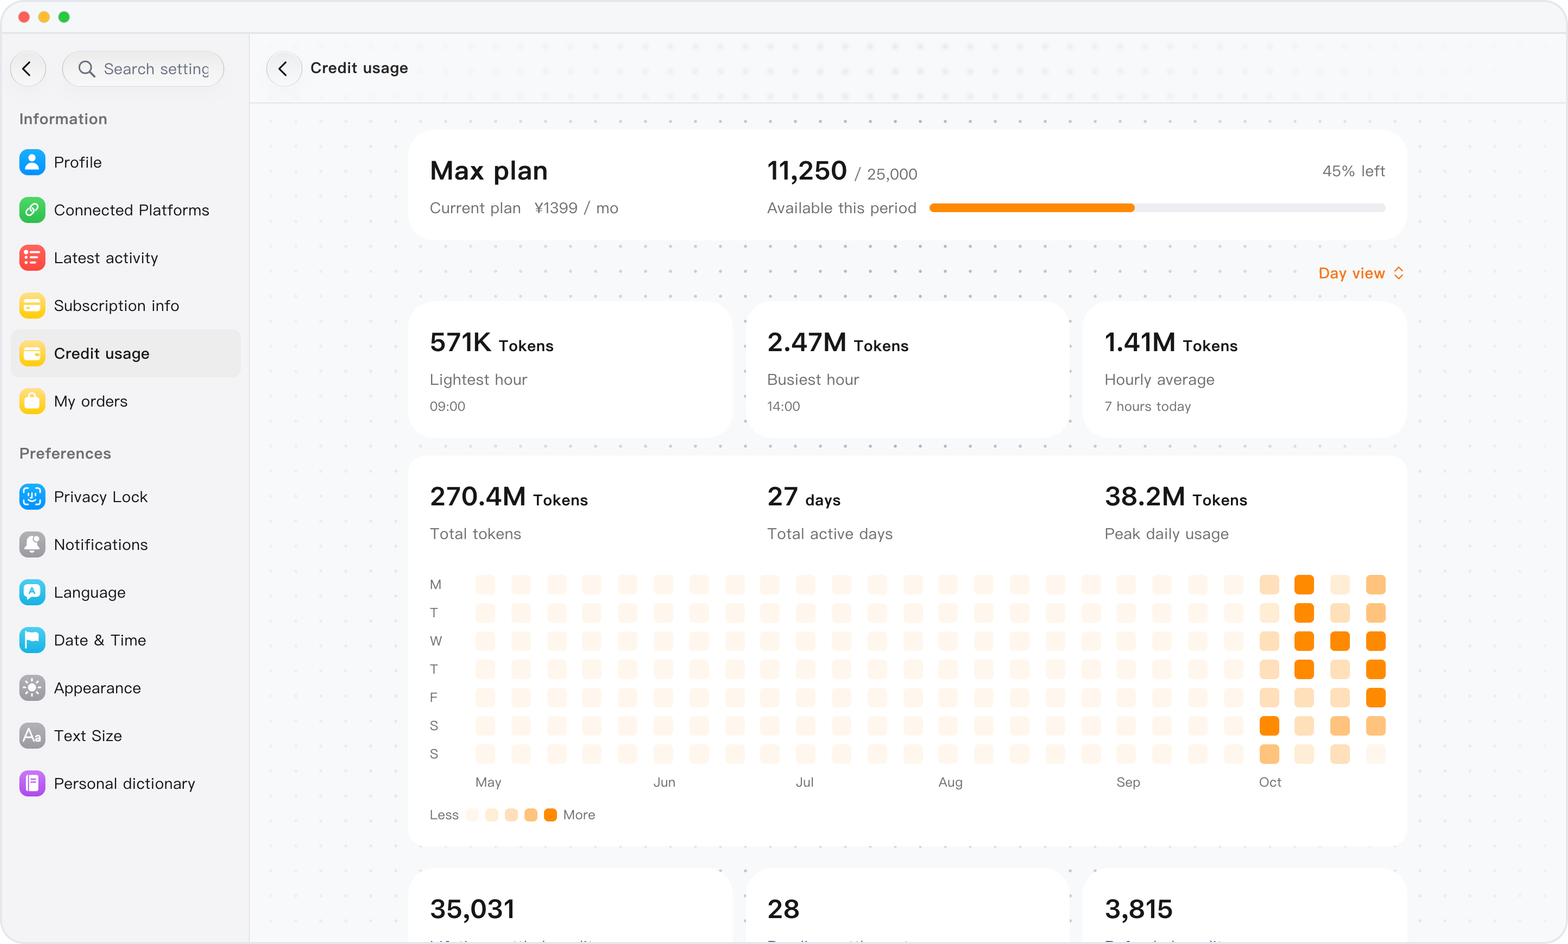
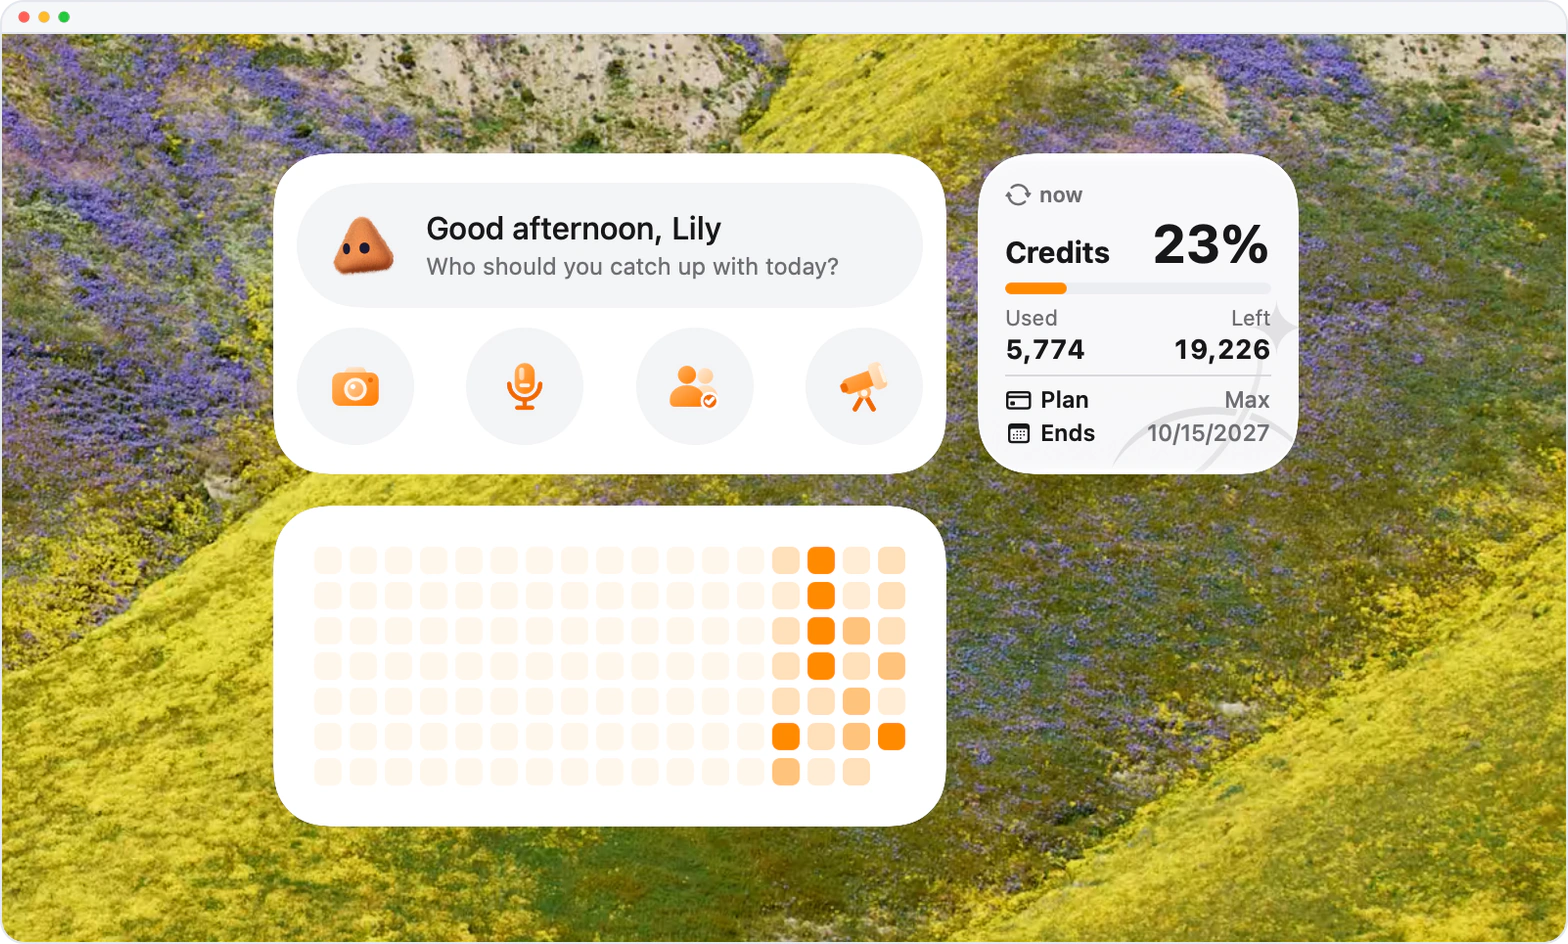
docs(changelog): sync CRM preview updates and screenshots
Changes:
- Publish CRM preview notes, localized screenshots and indexes; retain released history.

Validation:
- Generated output is current; all Markdown links resolve; staged whitespace check passes.

Impact:
- Public documentation only. Preview features remain unreleased; no production deployment or user data changes.

Traceability:
- Founder-approved GitHub changelog synchronization, 2026-10-22.

diff --git a/releases/crm-2026-10-24-mars-widgets-on-iphone.md b/releases/crm-2026-10-24-mars-widgets-on-iphone.md
@@ -1,19 +1,19 @@
-# Mars widgets for iPhone
+# Mars widgets for iPhone and Mac
 
-> **Preview** · 2026-10-24 · `0.1.1.7865`
+> **Preview** · 2026-10-24 · `0.1.1.7924`
 > These features are available in the preview version and have not been generally released.
 
-Reach Mars from the Home Screen without hunting for the app.
+Reach Mars from the Home Screen or the desktop without hunting for the app.
 
-Touch and hold the Home Screen, choose Edit, then Add Widget, and pick Mars. Quick actions shows an orange plush bot that greets you by name for the time of day, with an event starting within the next two hours or a suggestion such as snapping a business card. Its four buttons open a new conversation ready for the camera, voice input, relationship information or deep research. Credit usage shows the last weeks of your daily token heatmap, the same as the usage page, and opens that page when tapped. On the Lock Screen, add the Mars logo, voice input and camera upload buttons, and a plan and credits bar whose ring shows the share of credits left, with your plan, the percentage left and remaining / total credits. Widgets show what the app last synced: it refreshes them when it opens and when you leave it, so the Lock Screen reflects credits you just spent, and signing out clears them. Siri and Spotlight also offer new chat, voice input, upload screenshot and view reminders.
+Touch and hold the Home Screen, choose Edit, then Add Widget, and pick Mars. Quick actions shows an orange plush bot that greets you by name for the time of day, with an event starting within the next two hours or a suggestion such as snapping a business card. Its four buttons open a new conversation ready for the camera, voice input, relationship information or deep research. Credit usage shows the last weeks of your daily token heatmap, the same as the usage page, and opens that page when tapped. The small credits card shows the share of credits used, used and remaining credits, your plan and when the subscription ends, in light, dark or following the system. On a Mac with the Mars app, right-click the desktop, choose Edit Widgets and search for Mars to place the same widgets on the desktop. On the Lock Screen, add the Mars logo, voice input and camera upload buttons, and a plan and credits bar whose ring shows the share of credits left, with your plan, the percentage left and remaining / total credits. Widgets show what the app last synced: it refreshes them when it opens and when you leave it, so the Lock Screen reflects credits you just spent, and signing out clears them. Siri and Spotlight also offer new chat, voice input, upload screenshot and view reminders.
 
 Capture a business card, a voice note or a research question the moment it comes up, and always know how many credits you have left.
 
-![Mars widgets for iPhone — Desktop](../assets/crm-mars-widgets-on-iphone.en.webp)
+![Mars widgets for iPhone and Mac — Desktop](../assets/crm-mars-widgets-on-iphone.en.webp)
 
 *Illustration using fictional demo data.*
 
-![Mars widgets for iPhone — iPhone](../assets/crm-mars-widgets-on-iphone.phone.en.webp)
+![Mars widgets for iPhone and Mac — iPhone](../assets/crm-mars-widgets-on-iphone.phone.en.webp)
 
 *Illustration using fictional demo data.*
 

diff --git a/releases/crm-2026-10-24-mars-widgets-on-iphone.zh-HK.md b/releases/crm-2026-10-24-mars-widgets-on-iphone.zh-HK.md
@@ -1,19 +1,19 @@
-# iPhone 桌面小組件
+# iPhone 和 Mac 桌面小組件
 
-> **預覽** · 2026-10-24 · `0.1.1.7865`
+> **預覽** · 2026-10-24 · `0.1.1.7924`
 > 以下功能目前處於預覽階段，尚未正式上線。
 
-不用找應用，在主屏幕上就能叫出 Mars。
+不用找應用，在主屏幕或桌面上就能叫出 Mars。
 
-長按主屏幕，選擇「編輯」→「添加小組件」，找到 Mars 即可。「Mars 快捷入口」上有一隻橙色毛絨機器人，按時段叫出你的名字問好；兩小時內有事件時顯示該事件，否則給出「拍張名片」之類的建議。下方四個按鈕分別新建一個對話並直接進入拍照、語音輸入、關係信息或深度研究。「額度消耗」顯示最近幾週每天的 Tokens 消耗熱力圖，與額度使用情況頁一致，點按即可打開該頁。在鎖屏上可以添加 Mars 標誌、語音輸入和拍照上傳按鈕，以及套餐與額度條：圓環顯示剩餘額度佔比，旁邊是套餐名稱、剩餘百分比和剩餘 / 總額度。小組件顯示的是應用最近一次同步的數據：打開應用和離開應用時都會刷新，所以剛用掉的額度會立即反映在鎖屏上；退出登錄後小組件會清空。Siri 和聚焦搜索也提供「開啓新對話」「語音輸入」「上傳截圖」「查看提醒」四個建議。
+長按主屏幕，選擇「編輯」→「添加小組件」，找到 Mars 即可。「Mars 快捷入口」上有一隻橙色毛絨機器人，按時段叫出你的名字問好；兩小時內有事件時顯示該事件，否則給出「拍張名片」之類的建議。下方四個按鈕分別新建一個對話並直接進入拍照、語音輸入、關係信息或深度研究。「額度消耗」顯示最近幾週每天的 Tokens 消耗熱力圖，與額度使用情況頁一致，點按即可打開該頁。小尺寸的「額度卡片」顯示已用額度佔比、已用和剩餘額度、套餐和訂閲截止時間，可選淺色、深色或跟隨系統。在裝有 Mars 的 Mac 上，右鍵點按桌面，選擇「編輯小組件」並搜索 Mars，就能把同樣的小組件放到桌面上。在鎖屏上可以添加 Mars 標誌、語音輸入和拍照上傳按鈕，以及套餐與額度條：圓環顯示剩餘額度佔比，旁邊是套餐名稱、剩餘百分比和剩餘 / 總額度。小組件顯示的是應用最近一次同步的數據：打開應用和離開應用時都會刷新，所以剛用掉的額度會立即反映在鎖屏上；退出登錄後小組件會清空。Siri 和聚焦搜索也提供「開啓新對話」「語音輸入」「上傳截圖」「查看提醒」四個建議。
 
 名片、語音和想研究的問題，想到就能記下；剩餘額度也隨時心中有數。
 
-![iPhone 桌面小組件 — 電腦端](../assets/crm-mars-widgets-on-iphone.zh-TW.webp)
+![iPhone 和 Mac 桌面小組件 — 電腦端](../assets/crm-mars-widgets-on-iphone.zh-TW.webp)
 
 *示意圖，使用虛構演示資料。*
 
-![iPhone 桌面小組件 — iPhone](../assets/crm-mars-widgets-on-iphone.phone.zh-TW.webp)
+![iPhone 和 Mac 桌面小組件 — iPhone](../assets/crm-mars-widgets-on-iphone.phone.zh-TW.webp)
 
 *示意圖，使用虛構演示資料。*
 

diff --git a/releases/crm-2026-10-24-mars-widgets-on-iphone.zh-CN.md b/releases/crm-2026-10-24-mars-widgets-on-iphone.zh-CN.md
@@ -1,19 +1,19 @@
-# iPhone 桌面小组件
+# iPhone 和 Mac 桌面小组件
 
-> **预览** · 2026-10-24 · `0.1.1.7865`
+> **预览** · 2026-10-24 · `0.1.1.7924`
 > 以下功能目前处于预览阶段，尚未正式上线。
 
-不用找应用，在主屏幕上就能叫出 Mars。
+不用找应用，在主屏幕或桌面上就能叫出 Mars。
 
-长按主屏幕，选择「编辑」→「添加小组件」，找到 Mars 即可。「Mars 快捷入口」上有一只橙色毛绒机器人，按时段叫出你的名字问好；两小时内有事件时显示该事件，否则给出「拍张名片」之类的建议。下方四个按钮分别新建一个对话并直接进入拍照、语音输入、关系信息或深度研究。「额度消耗」显示最近几周每天的 Tokens 消耗热力图，与额度使用情况页一致，点按即可打开该页。在锁屏上可以添加 Mars 标志、语音输入和拍照上传按钮，以及套餐与额度条：圆环显示剩余额度占比，旁边是套餐名称、剩余百分比和剩余 / 总额度。小组件显示的是应用最近一次同步的数据：打开应用和离开应用时都会刷新，所以刚用掉的额度会立即反映在锁屏上；退出登录后小组件会清空。Siri 和聚焦搜索也提供「开启新对话」「语音输入」「上传截图」「查看提醒」四个建议。
+长按主屏幕，选择「编辑」→「添加小组件」，找到 Mars 即可。「Mars 快捷入口」上有一只橙色毛绒机器人，按时段叫出你的名字问好；两小时内有事件时显示该事件，否则给出「拍张名片」之类的建议。下方四个按钮分别新建一个对话并直接进入拍照、语音输入、关系信息或深度研究。「额度消耗」显示最近几周每天的 Tokens 消耗热力图，与额度使用情况页一致，点按即可打开该页。小尺寸的「额度卡片」显示已用额度占比、已用和剩余额度、套餐和订阅截止时间，可选浅色、深色或跟随系统。在装有 Mars 的 Mac 上，右键点按桌面，选择「编辑小组件」并搜索 Mars，就能把同样的小组件放到桌面上。在锁屏上可以添加 Mars 标志、语音输入和拍照上传按钮，以及套餐与额度条：圆环显示剩余额度占比，旁边是套餐名称、剩余百分比和剩余 / 总额度。小组件显示的是应用最近一次同步的数据：打开应用和离开应用时都会刷新，所以刚用掉的额度会立即反映在锁屏上；退出登录后小组件会清空。Siri 和聚焦搜索也提供「开启新对话」「语音输入」「上传截图」「查看提醒」四个建议。
 
 名片、语音和想研究的问题，想到就能记下；剩余额度也随时心中有数。
 
-![iPhone 桌面小组件 — 电脑端](../assets/crm-mars-widgets-on-iphone.webp)
+![iPhone 和 Mac 桌面小组件 — 电脑端](../assets/crm-mars-widgets-on-iphone.webp)
 
 *示意图，使用虚构演示数据。*
 
-![iPhone 桌面小组件 — iPhone](../assets/crm-mars-widgets-on-iphone.phone.webp)
+![iPhone 和 Mac 桌面小组件 — iPhone](../assets/crm-mars-widgets-on-iphone.phone.webp)
 
 *示意图，使用虚构演示数据。*
 

diff --git a/README.zh-HK.md b/README.zh-HK.md
@@ -7,11 +7,11 @@
 
 ## 預覽版更新
 
-![iPhone 桌面小組件](assets/crm-mars-widgets-on-iphone.zh-TW.webp)
+![iPhone 和 Mac 桌面小組件](assets/crm-mars-widgets-on-iphone.zh-TW.webp)
 
 *示意圖，使用虛構演示資料。*
 
-- **2026-10-24** · [iPhone 桌面小組件](releases/crm-2026-10-24-mars-widgets-on-iphone.zh-HK.md) · 預覽 · `0.1.1.7865`
+- **2026-10-24** · [iPhone 和 Mac 桌面小組件](releases/crm-2026-10-24-mars-widgets-on-iphone.zh-HK.md) · 預覽 · `0.1.1.7924`
 - **2026-10-23** · [不登錄讀取網頁](releases/crm-2026-10-23-read-pages-without-your-login.zh-HK.md) · 預覽 · `0.1.1.7618`
 - **2026-10-23** · [按價值排序](releases/crm-2026-10-23-sort-by-value.zh-HK.md) · 預覽 · `0.1.1.7618`
 - **2026-10-22** · [Mars 看懂社交媒體視頻](releases/crm-2026-10-22-mars-watches-social-videos.zh-HK.md) · 預覽 · `0.1.1.7433`

diff --git a/README.md b/README.md
@@ -7,11 +7,11 @@
 
 ## Preview updates
 
-![Mars widgets for iPhone](assets/crm-mars-widgets-on-iphone.en.webp)
+![Mars widgets for iPhone and Mac](assets/crm-mars-widgets-on-iphone.en.webp)
 
 *Illustration using fictional demo data.*
 
-- **2026-10-24** · [Mars widgets for iPhone](releases/crm-2026-10-24-mars-widgets-on-iphone.md) · Preview · `0.1.1.7865`
+- **2026-10-24** · [Mars widgets for iPhone and Mac](releases/crm-2026-10-24-mars-widgets-on-iphone.md) · Preview · `0.1.1.7924`
 - **2026-10-23** · [Web pages read without your login](releases/crm-2026-10-23-read-pages-without-your-login.md) · Preview · `0.1.1.7618`
 - **2026-10-23** · [Sort by value](releases/crm-2026-10-23-sort-by-value.md) · Preview · `0.1.1.7618`
 - **2026-10-22** · [Mars understands social media videos](releases/crm-2026-10-22-mars-watches-social-videos.md) · Preview · `0.1.1.7433`

diff --git a/README.zh-CN.md b/README.zh-CN.md
@@ -7,11 +7,11 @@
 
 ## 预览版更新
 
-![iPhone 桌面小组件](assets/crm-mars-widgets-on-iphone.webp)
+![iPhone 和 Mac 桌面小组件](assets/crm-mars-widgets-on-iphone.webp)
 
 *示意图，使用虚构演示数据。*
 
-- **2026-10-24** · [iPhone 桌面小组件](releases/crm-2026-10-24-mars-widgets-on-iphone.zh-CN.md) · 预览 · `0.1.1.7865`
+- **2026-10-24** · [iPhone 和 Mac 桌面小组件](releases/crm-2026-10-24-mars-widgets-on-iphone.zh-CN.md) · 预览 · `0.1.1.7924`
 - **2026-10-23** · [不登录读取网页](releases/crm-2026-10-23-read-pages-without-your-login.zh-CN.md) · 预览 · `0.1.1.7618`
 - **2026-10-23** · [按价值排序](releases/crm-2026-10-23-sort-by-value.zh-CN.md) · 预览 · `0.1.1.7618`
 - **2026-10-22** · [Mars 看懂社交媒体视频](releases/crm-2026-10-22-mars-watches-social-videos.zh-CN.md) · 预览 · `0.1.1.7433`

diff --git a/CHANGELOG.md b/CHANGELOG.md
@@ -7,13 +7,13 @@
 
 ## Preview updates
 
-### [Mars widgets for iPhone](releases/crm-2026-10-24-mars-widgets-on-iphone.md)
+### [Mars widgets for iPhone and Mac](releases/crm-2026-10-24-mars-widgets-on-iphone.md)
 
-**Preview** · 2026-10-24 · `0.1.1.7865`
+**Preview** · 2026-10-24 · `0.1.1.7924`
 
-Mars widgets arrive on the iPhone Home Screen and Lock Screen: start a chat, voice note or photo in one tap, and see your usage and credits left at a glance.
+Mars widgets arrive on the iPhone Home Screen, the Lock Screen and the Mac desktop: start a chat, voice note or photo in one tap, and see your usage and credits left at a glance.
 
-![Mars widgets for iPhone](assets/crm-mars-widgets-on-iphone.en.webp)
+![Mars widgets for iPhone and Mac](assets/crm-mars-widgets-on-iphone.en.webp)
 
 *Illustration using fictional demo data.*
 

diff --git a/CHANGELOG.zh-HK.md b/CHANGELOG.zh-HK.md
@@ -7,13 +7,13 @@
 
 ## 預覽版更新
 
-### [iPhone 桌面小組件](releases/crm-2026-10-24-mars-widgets-on-iphone.zh-HK.md)
+### [iPhone 和 Mac 桌面小組件](releases/crm-2026-10-24-mars-widgets-on-iphone.zh-HK.md)
 
-**預覽** · 2026-10-24 · `0.1.1.7865`
+**預覽** · 2026-10-24 · `0.1.1.7924`
 
-Mars 小組件登陸 iPhone 主屏幕和鎖屏：一鍵開始對話、語音或拍照，用量和剩餘額度一眼可見。
+Mars 小組件登陸 iPhone 主屏幕、鎖屏和 Mac 桌面：一鍵開始對話、語音或拍照，用量和剩餘額度一眼可見。
 
-![iPhone 桌面小組件](assets/crm-mars-widgets-on-iphone.zh-TW.webp)
+![iPhone 和 Mac 桌面小組件](assets/crm-mars-widgets-on-iphone.zh-TW.webp)
 
 *示意圖，使用虛構演示資料。*
 

diff --git a/CHANGELOG.zh-CN.md b/CHANGELOG.zh-CN.md
@@ -7,13 +7,13 @@
 
 ## 预览版更新
 
-### [iPhone 桌面小组件](releases/crm-2026-10-24-mars-widgets-on-iphone.zh-CN.md)
+### [iPhone 和 Mac 桌面小组件](releases/crm-2026-10-24-mars-widgets-on-iphone.zh-CN.md)
 
-**预览** · 2026-10-24 · `0.1.1.7865`
+**预览** · 2026-10-24 · `0.1.1.7924`
 
-Mars 小组件登陆 iPhone 主屏幕和锁屏：一键开始对话、语音或拍照，用量和剩余额度一眼可见。
+Mars 小组件登陆 iPhone 主屏幕、锁屏和 Mac 桌面：一键开始对话、语音或拍照，用量和剩余额度一眼可见。
 
-![iPhone 桌面小组件](assets/crm-mars-widgets-on-iphone.webp)
+![iPhone 和 Mac 桌面小组件](assets/crm-mars-widgets-on-iphone.webp)
 
 *示意图，使用虚构演示数据。*
 
